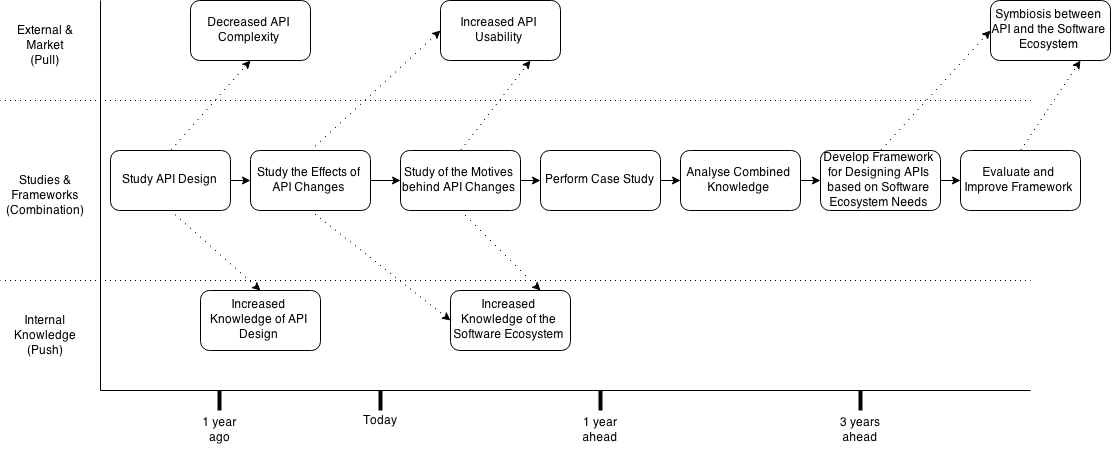
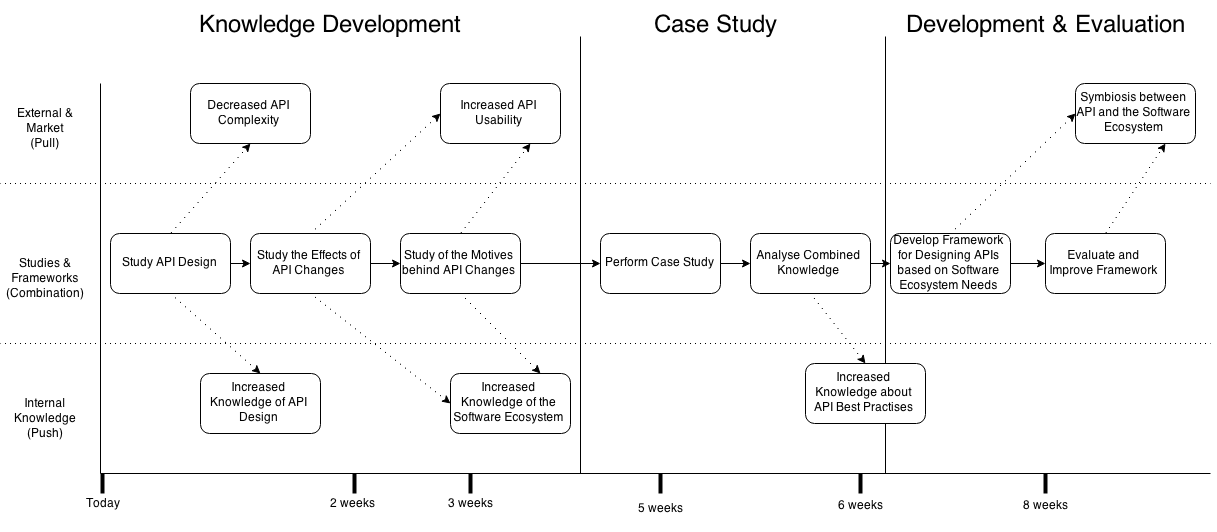
changes to roadmap

diff --git a/ibp/ibp.tex b/ibp/ibp.tex
@@ -19,11 +19,11 @@
 
 \maketitle
 \section{Executive Summary}
-This report presents a plan for how to develop and distribute a framework for designing and improving APIs in the context of software evolution and software ecosystems. 
+This report presents a plan for how to develop and distribute a framework for designing and improving Application Programming Interfaces (APIs) in the context of software evolution and software ecosystems. \smallskip
 
-The research behind the framework has been made through reviewing existing literature, and through analysing changes between  different versions on an industry API. The main way of assessing the API has been through measuring the impact it has on its ecosystem. The development of the framework has been supported by a solid technology roadmap, dissemination plan and impact assessment. 
+The research behind the framework has been made through reviewing existing literature, and through analysing changes between  different versions on an industry API. The main way of assessing the API has been through measuring the impact it has on its ecosystem. The development of the framework has been supported by a solid technology roadmap, dissemination plan and impact assessment. \smallskip
 
-The findings of our initial studies show that the changes to APIs have negative effects, and that they primarily affect the users of the API. They also show that modifications to APIs heavily influence the ecosystem. 
+The findings of our initial studies show that the changes to APIs have negative effects, and that they primarily affect the users of the API. They also show that modifications to APIs heavily influence the ecosystem. \smallskip
 
 With this report we conclude that the improvement potential to the current ways of designing APIs is huge. This can especially be achieved by weighing in the needs of the whole ecosystem when designing APIs. We also conclude that there is a large need for a framework such as the one we are proposing, and that it could lead to major improvements in areas such as the open-source community and in web development. The three most important benefits of our paper are: 
 
@@ -42,25 +42,28 @@ This section will describe the problem that we are trying to solve, why it is im
 
 As the software industry and the open source movement steadily grow, the number of publicly available APIs is increasing. APIs can improve development speed \cite{stylos2006comparing}, improve software quality \cite{stylos2006comparing} and can increase software reusability \cite{afonso2012evaluating}. There is a consensus among literature and experts that modifications to deployed APIs can have negative impacts on the users of the API \cite{google_talk} \cite{mcdonnell2013empirical} \cite{robbes2012developers} \cite{henning2007api}. The main reason is that it will require the users to update the code using the API, thus causing a disruption in the application's software ecosystem \cite{messerschmitt2005software}. The most common changes to APIs occur from refactoring \cite{dig2005role} \cite{xing2006refactoring}.
 
-The problem, put simply, is this; how can effective changes be made to deployed APIs with minimal impact upon the ecosystem in which the API is utilised?
+\subsection{Research Question}
+\begin{itemize}
+\item How can effective changes be made to deployed APIs with minimal impact upon the ecosystem in which the API is utilised?
+\end{itemize}
 
 %Highlight problem and who it's for here.
 \subsection{Why is this important?}
-Having a stable and well designed API is vital to the success of a company or product, especially if they are built around a particular API. For example, a study on the impact of reliable APIs was undertaken in the Android ecosystem \cite{mcdonnell2013empirical}. The study aimed to discover if APIs with high rates of faults affected the success of an application. The study found that the 50 least popular applications had APIs which were 500\% more error prone, ultimately concluding that there is indeed a correlation between API stability and application success \cite{mcdonnell2013empirical}. 
+Having a stable and well designed API is vital to the success of a company or product, especially if they are built around a particular API. For example, a study on the impact of reliable APIs was undertaken in the Android ecosystem \cite{mcdonnell2013empirical}. The study aimed to discover if APIs with high rates of faults affected the success of an application. The study found that the 50 least popular applications had APIs which were 500\% more error prone, ultimately concluding that there is indeed a correlation between API stability and application success \cite{mcdonnell2013empirical}. \smallskip
 
-Due to the negative implications that modifications to APIs cause for users, it is important to understand why changes occur. If the most common pitfalls are known before the development of new APIs begin, these mistakes could be mitigated. Likewise, if common dangers of changes to existing APIs are fully studied and understood, informed changes can be made to lessen the affect on the users. Furthermore, industry and academia can use these lessons learned to create, or enhance existing best practices of API design.
+Due to the negative implications that modifications to APIs cause for users, it is important to understand why changes occur. If the most common pitfalls are known before the development of new APIs begin, these mistakes could be mitigated. Likewise, if common dangers of changes to existing APIs are fully studied and understood, informed changes can be made to lessen the affect on the users. Furthermore, industry and academia can use these lessons learned to create, or enhance existing best practices of API design.\smallskip
 
-Given that software is prevalent in our lives, it is likely that poor API design changes have affected our lives at some point. One could therefore argue that this problem is important to everyone; customers, businesses and developers.
+Given that software is prevalent in our lives, it is likely that poor API design changes have affected our lives at some point. One could therefore argue that this problem is important to everyone; customers, businesses and developers. \smallskip
 
 %This needs fluffing
-Our solution is to provide a set of guidelines, or framework with which to follow when making changes to APIs. The framework will prioritise business motives and needs when tackling design decisions.
+Our solution is to provide a set of guidelines, or framework with which to follow when making changes to APIs. The framework will prioritise business motives and needs when tackling design decisions. The framework will also take into account the business need, not only of the organisation which owns the API, but the business needs of all organisations existing in the ecosystem.
 
 \subsection{Related Products}
-Exhaustive research has found that there exists very few similar solutions similar to our own. While there are countless books related to the subject, very few actually aim to address the needs of business and customers; they are primarily focused on the developer.
+Exhaustive research has found that there exists very few similar solutions similar to our own. While there are countless books related to the subject, very few actually aim to address the needs of business and customers; they are primarily focused on the developer. \smallskip
 
-Apiary is a popular online API design service. Apiary focuses on a collaborative approach to creating APIs, the tool offers the ability to work with between 5 and 50 contributors on a single project. The unique part of this tool is that it provides a ``mock" API by which customers, developers or anyone with access can work with. This stage allows quick prototyping and testing of an API before any real coding has taken place. The tool, while useful, doesn't aim to solve the problem of handling changes to APIs but is instead a good platform to quickly prototype ideas.
+Apiary is a popular online API design service. Apiary focuses on a collaborative approach to creating APIs, the tool offers the ability to work with between 5 and 50 contributors on a single project. The unique part of this tool is that it provides a ``mock" API by which customers, developers or anyone with access can work with. This stage allows quick prototyping and testing of an API before any real coding has taken place. The tool, while useful, doesn't aim to solve the problem of handling changes to APIs but is instead a good platform to quickly prototype ideas. \smallskip
 
-Mashery provide a more business oriented approach to API development. They offer a wide variety of services with API management being one of them. Quoting their website, they:
+Mashery provide a more business oriented approach to API development. They offer a wide variety of services with API management being one of them. Quoting their website, they: \smallskip
 
 \begin{itemize}
 \item Increase productivity through uniformity and accessibility of data
@@ -97,17 +100,17 @@ The roadmap was developed using the standard T-Plan process \cite{phaal2004techn
 \end{table}
 
 \subsection{Knowledge Development}
-Since we have made the assessment that the market need will to remain relatively stable, careful research is essential to be able to deliver a product that meets the market needs. The primary method of performing the initial study, to be able to improve knowledge, will be through studying the existing literature. The reason for this is that three fields, API design, software evolution and software ecosystems, are currently well-explored, but the correlation and relationship between them has not yet been identified. Therefore, these fields will be explored in literature and a set of ``best practices" will be gathered from each of them. 
+Since we have made the assessment that the market need will to remain relatively stable, careful research is essential to be able to deliver a product that meets the market needs. The primary method of performing the initial study, to be able to improve knowledge, will be through studying the existing literature. The reason for this is that three fields, API design, software evolution and software ecosystems, are currently well-explored, but the correlation and relationship between them has not yet been identified. Therefore, these fields will be explored in literature and a set of ``best practices" will be gathered from each of them. \smallskip
 
-In addition to the literature review, a case study will be conducted to gather information from a company leading its field. The goal of the data collection performed in the case study will also be to gather a set of best practices for each of the three fields. To determine these best practices, an analysis of the companies current API and a future API will be performed. The changes between the two versions of the company's platform API will be of great significance and it is from these changes that we will base some of our best practices upon.
+In addition to the literature review, a case study will be conducted to gather information from a company leading its field. The goal of the data collection performed in the case study will also be to gather a set of best practices for each of the three fields. To determine these best practices, an analysis of the companies current API and a future API will be performed. The changes between the two versions of the company's platform API will be of great significance and it is from these changes that we will base some of our best practices upon. \smallskip
 
 \subsection{Implementing the Framework}
-In order to collate as much existing knowledge and research as possible, a thorough, extensive literature review will be conducted. This will be complimented by a case study which is shall be performed in conjunction with the previously mentioned case company. The results of both the review and the case study will be analysed and compared. A set of best practices, based on the data collected in the review and case study, will be used to create the basis of the framework that will make up our best practices. Bringing in important factors from each of the three fields in the discussion is of the highest importance. The goal of this phase is therefore to create an Minimum Viable Product (MVP) that can be adopted and evaluated at the case company. 
+In order to collate as much existing knowledge and research as possible, a thorough, extensive literature review will be conducted. This will be complimented by a case study which is shall be performed in conjunction with the previously mentioned case company. The results of both the review and the case study will be analysed and compared. A set of best practices, based on the data collected in the review and case study, will be used to create the basis of the framework that will make up our best practices. Bringing in important factors from each of the three fields in the discussion is of the highest importance. The goal of this phase is therefore to create an Minimum Viable Product (MVP) that can be adopted and evaluated at the case company. \smallskip
 
 Once this information has been fully analysed and documented, with the best practices found, the framework can be created in full. The framework needs to be language agnostic and apply to no specific technical area, rather it should be applicable to all.
 
 \subsection{Adoption and Evaluation}
-The final stage of the roadmap will be performed using an iterative approach, where the MVP will be continuously evaluated and improved at the case company. The primary result of evaluating the success of the framework will be to measure if there is any visible reduction in the amount of negative effects that changes to an API has on its ecosystem, while retaining the original complexity and usability before the changes were made.
+The final stage of the roadmap will be performed using an iterative approach, where the MVP will be continuously evaluated and improved at the case company. The primary result of evaluating the success of the framework will be to measure if there is any visible reduction in the amount of negative effects that changes to an API has on its ecosystem, while retaining the original complexity and usability before the changes were made. \smallskip
 
 To ease the adoption process, a series of tests and evaluations will be performed on pilot studies. The goal of these pilot studies would be to verify and improve the best practices. For example, we will perform an analysis of an exist API and it's changes against an existing framework. We will then apply our framework and best practices to see if our framework suggests better and more robust changes, taking into account the affects of these changes on the ecosystem. Feedback will then be collected from the company who owns the API based on our frameworks suggested changes. This will be done to determine if our suggested changes are achieving the same goals as their changes would have done.
 
@@ -119,25 +122,26 @@ To ease the adoption process, a series of tests and evaluations will be performe
 \end{sidewaysfigure}
 %TODO: Add colours+graphix so that it's innovative and stuff
 
+
 \section{Dissemination Plan, 2p}
 This section will describe the dissemination plan for our framework. 
 
 \subsection{End-users}
 
-Two immediate end-users of our framework have been identified, 1) open-source projects and 2) web development APIs. Open-source projects have been identified as potential users of our API as they generally have a good-will mindset when it comes to furthering and helping to improve the software engineering industry. Generally speaking, most open-source developers do no prioritise making a profit from their work, instead, they focus on delivering a product that is as complete and functional as possible. The open-source community is a well established and has existed for a long time, with a long tradition of autonomy, it can be said that they care about the well-being of their software ecosystems. 
+Two immediate end-users of our framework have been identified, 1) open-source projects and 2) web development APIs. Open-source projects have been identified as potential users of our API as they generally have a good-will mindset when it comes to furthering and helping to improve the software engineering industry. Generally speaking, most open-source developers do no prioritise making a profit from their work, instead, they focus on delivering a product that is as complete and functional as possible. The open-source community is a well established and has existed for a long time, with a long tradition of autonomy, it can be said that they care about the well-being of their software ecosystems. \smallskip
 
 The second area where this could have an especially great impact would be in the area of web development APIs. Web APIs are widely used by vast amount of developers, performing many varied tasks. The web is a constantly evolving and expanding market, as such many companies rise and fall based on the success of their API. Therefore, it's not surprising that changes to a web API have significant impacts on the ecosystems of the systems. The toolchain in web development is usually referred to as a ``stack" which literally is a set of frameworks and APIs that you use together to develop your application.
 
 \subsection{Presentation and Communication}
-The most appropriate method of conveying our message and findings would be through the research community. The initial studies that will be conducted (as mentioned in Section 3) will lead to a number of published research papers. These papers will be used to generate awareness and attention of our framework and the successes that it can bring. The papers may propagate research and act as a stepping stone for other research. Other researchers could quite easily build upon the research which we have conducted. The outcome of which would only help our cause; to improve APIs everywhere. 
+The most appropriate method of conveying our message and findings would be through the research community. The initial studies that will be conducted (as mentioned in Section 3) will lead to a number of published research papers. These papers will be used to generate awareness and attention of our framework and the successes that it can bring. The papers may propagate research and act as a stepping stone for other research. Other researchers could quite easily build upon the research which we have conducted. The outcome of which would only help our cause; to improve APIs everywhere. \smallskip
 
-In addition to reaching out to the research community, conferences, especially those related to web development, would be targeted for publication. One example of such a conference is JDays, where many APIs that are developed in JavaScript are discussed. The main reason for targeting such conferences is that, generally speaking, these types of conferences tend to attract the prominent figures in a particular industry or a narrower aspect of it. Bringing this to the awareness of these key players would help to create further awareness and publicity of the research, and by association, the best practices that we shall develop.
+In addition to reaching out to the research community, conferences, especially those related to web development, would be targeted for publication. One example of such a conference is JDays, where many APIs that are developed in JavaScript are discussed. The main reason for targeting such conferences is that, generally speaking, these types of conferences tend to attract the prominent figures in a particular industry or a narrower aspect of it. Bringing this to the awareness of these key players would help to create further awareness and publicity of the research, and by association, the best practices that we shall develop. \smallskip
 
 The last way of presenting our framework would be through directly targeting a set of companies that operate in the same software ecosystem. One example of that would be to target a company which develops a game engine, and at the same time contact the most prominent game developers which utilise this game engine. If the company developing the game engine realises that there is large interest from the main users of their API, it is much more likely that they would be interested in using our API. 
 
 
 \section{Impact Assessment}
-This section will describe the impact that our framework will have. 
+This section will describe the impact that our framework will have on the business market and society in general. 
 
 \subsection{Background}
 The most significant impact of our new API framework would be that it could potentially transform the way companies and organisations motivate their design decisions for APIs. Today's software engineering companies mainly take into account their own agendas, and APIs are changed for refactoring reasons, such as name changes, or to reduce complexity. The most important factor when designing or changing APIs is, however, how the changes will impact the users of the API and how their needs are being met. In the recent years, this has been realised by the software engineering industry. As a result, the consensus is to have less deprecations when changing APIs and thus these changes have had their impact upon users reduced. 
@@ -146,18 +150,18 @@ The most significant impact of our new API framework would be that it could pote
 The next step that we propose the industry takes, is to weigh the needs of the whole ecosystem and not just the immediate needs of the user when creating or modifying APIs. By doing this, a more homogeneous environment would be possible where API platforms and API users can change their code simultaneously. For example, it would have the potential to reduce the risks taken when deprecating methods as users and developers would be able to communicate their needs effectively. The impact of this could even be that companies begin changing and improving their APIs with the view of helping the ecosystem instead of purely their own immediate needs. This would have the potential to cause a a domino effect in the ecosystem which would hopefully spread to other ecosystems and ultimately would become a part of their overall software design process. 
 
 \subsection{Impact on Society}
-If companies begin developing their APIs to fit the needs of ecosystems, it would not only have a great impact on these specific isolated environments; it would develop the whole software engineering industry. Therefore, the impact on society is potentially huge. Given that software is used by everyone, daily, improving software overall could improve peoples quality of life.
+If companies begin developing their APIs to fit the needs of ecosystems, it would not only have a great impact on these specific isolated environments; it would develop the whole software engineering industry. Therefore, the impact on society is potentially huge. Given that software is used by everyone, daily, improving software overall could improve peoples quality of life. \smallskip
 
 In modern software development, very few applications are written without the use of APIs. The consequence of which means, if APIs are designed more thoroughly, software performance is likely to rise. It might be difficult to envision that companies would actually spend resources to help their ecosystem without seeing and direct and immediate improvements for themselves. However, examples of where similar changes are happening can already be found today. One example is Ericsson. Ericsson are spending a lot of resources to develop open-source software such as Eclipse and Papyrus. The improvement of this software helps Ericsson directly, as they are using the software themselves. However, by improving open source software, they inadvertently help anyone else who uses this software. If this trend were to catch on, it could potentially lead to a world where all software has higher quality and is developed faster. 
 
 \section{Summary}
-The knowledge gained from the course has had both immediate and long term benefits. Immediately, we were able to use the information regarding finding research topics, collaborating with industry and performing research. These topics were invaluable for us when it came to finding a research topic and company for our thesis. In regards to the long term value, information for working at a company or in a professional environment will undoubtedly be of use for us. 
+The knowledge gained from the course has had both immediate and long term benefits. Immediately, we were able to use the information regarding finding research topics, collaborating with industry and performing research. These topics were invaluable for us when it came to finding a research topic and company for our thesis. In regards to the long term value, information for working at a company or in a professional environment will undoubtedly be of use for us. \smallskip
 
-The guest lectures were very useful as we received first hand accounts of how research is conducted within industry. This was particularly valuable given how our our solution is heavily involved with research and academia. If either of us wish to pursue a career in research, we now have some idea of what it would require and to some extent what it might be like to do so.
+The guest lectures were very useful as we received first hand accounts of how research is conducted within industry. This was particularly valuable given how our our solution is heavily involved with research and academia. If either of us wish to pursue a career in research, we now have some idea of what it would require and to some extent what it might be like to do so. \smallskip
 
-The second guest lecture was also of great help when for this report. The methods and ideas presented were vital in helping us generate ideas and solutions to our given problem.
+The second guest lecture was also of great help when for this report. The methods and ideas presented were vital in helping us generate ideas and solutions to our given problem. \smallskip
 
-The course has thought us how to apply the theoretical knowledge we have in a business setting. Other courses, such as pure programming courses, only teach you how to do something in theory but not how to use the skills in projects or at a company. This course in combination with the project courses will definitely help us in that. 
+The course has thought us how to apply the theoretical knowledge we have in a business setting. Other courses, such as pure programming courses, only teach you how to do something in theory but not how to use the skills in projects or at a company. This course in combination with the project courses will definitely help us in that. \smallskip
 
 Another more practical use of this course will be that it will help us to take a more structured and systematic approach in planning our career. Before we have only set goals that are quite loose and undefined, but now we can use real industry methods such as roadmaps to structure our career plan. This will definitely help us to choose a wiser path in our career and hopefully help us to find a job that suits us! 
 
